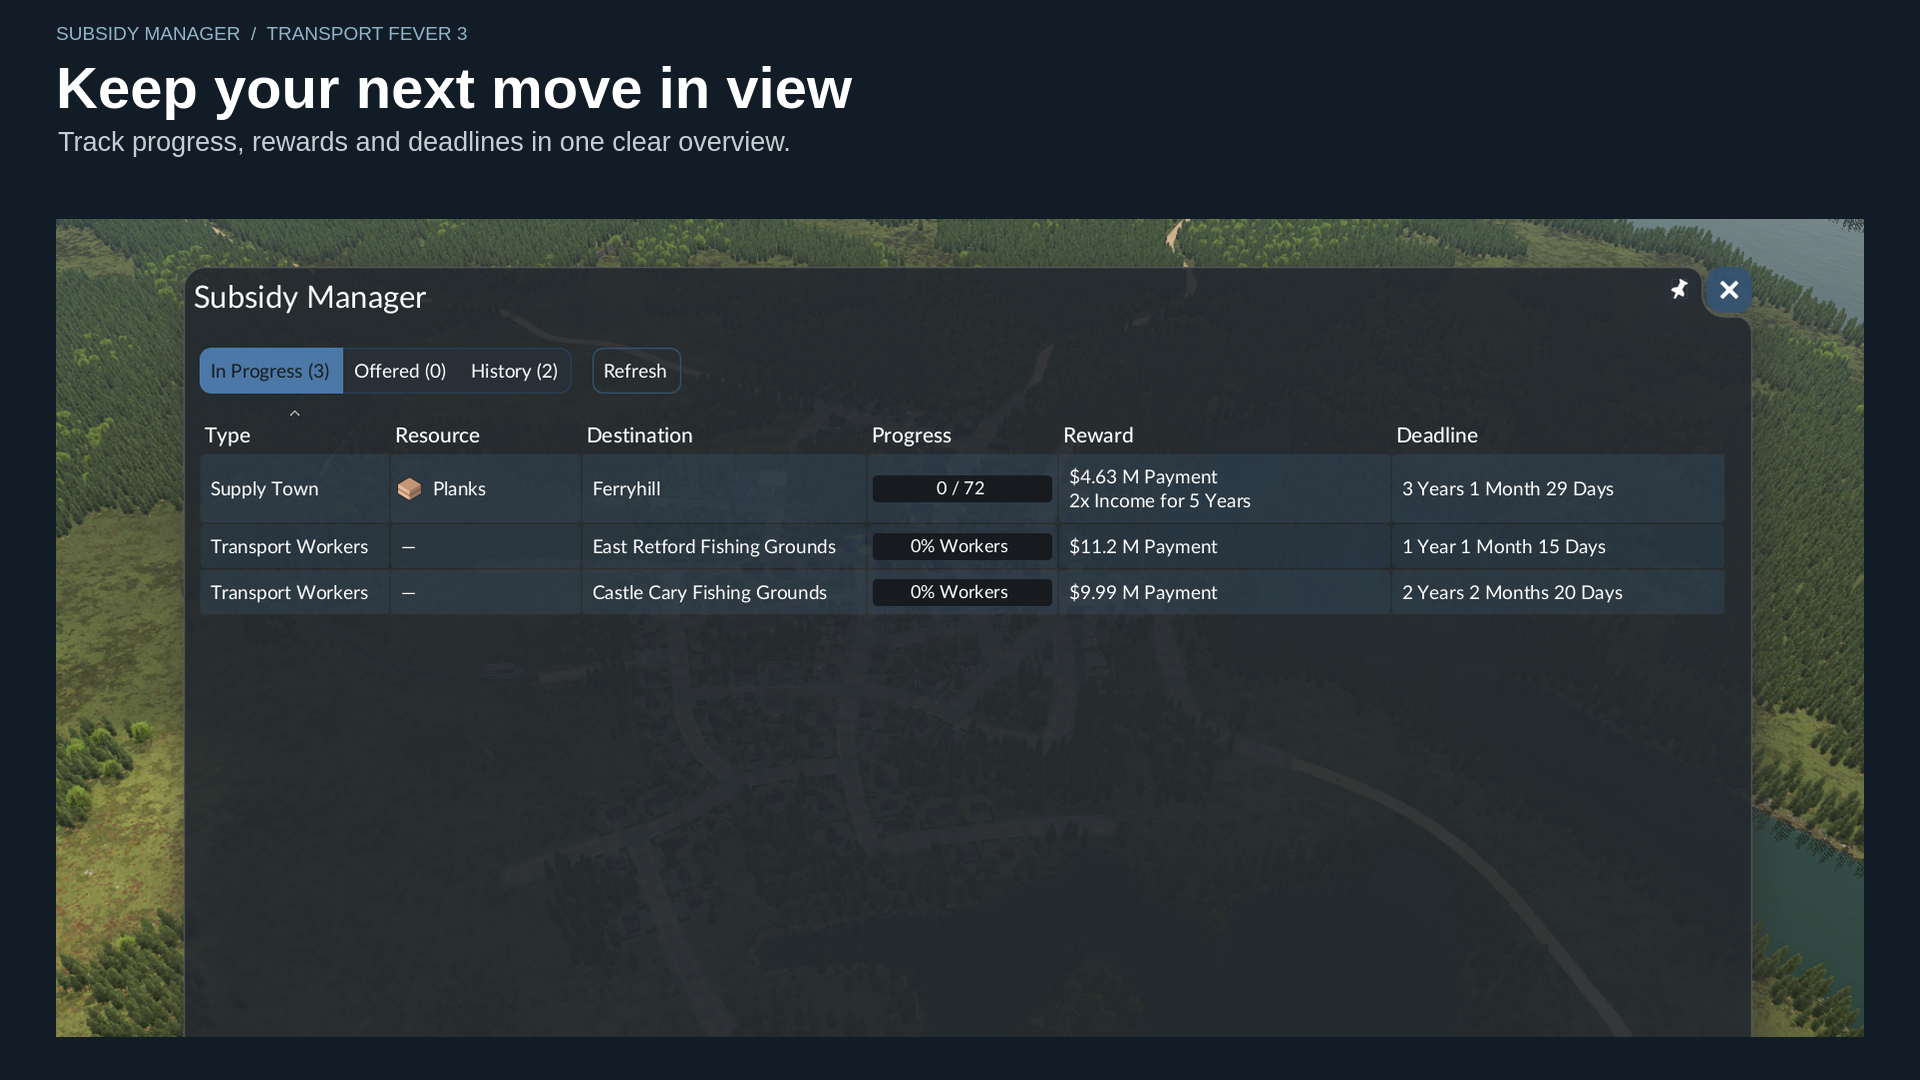
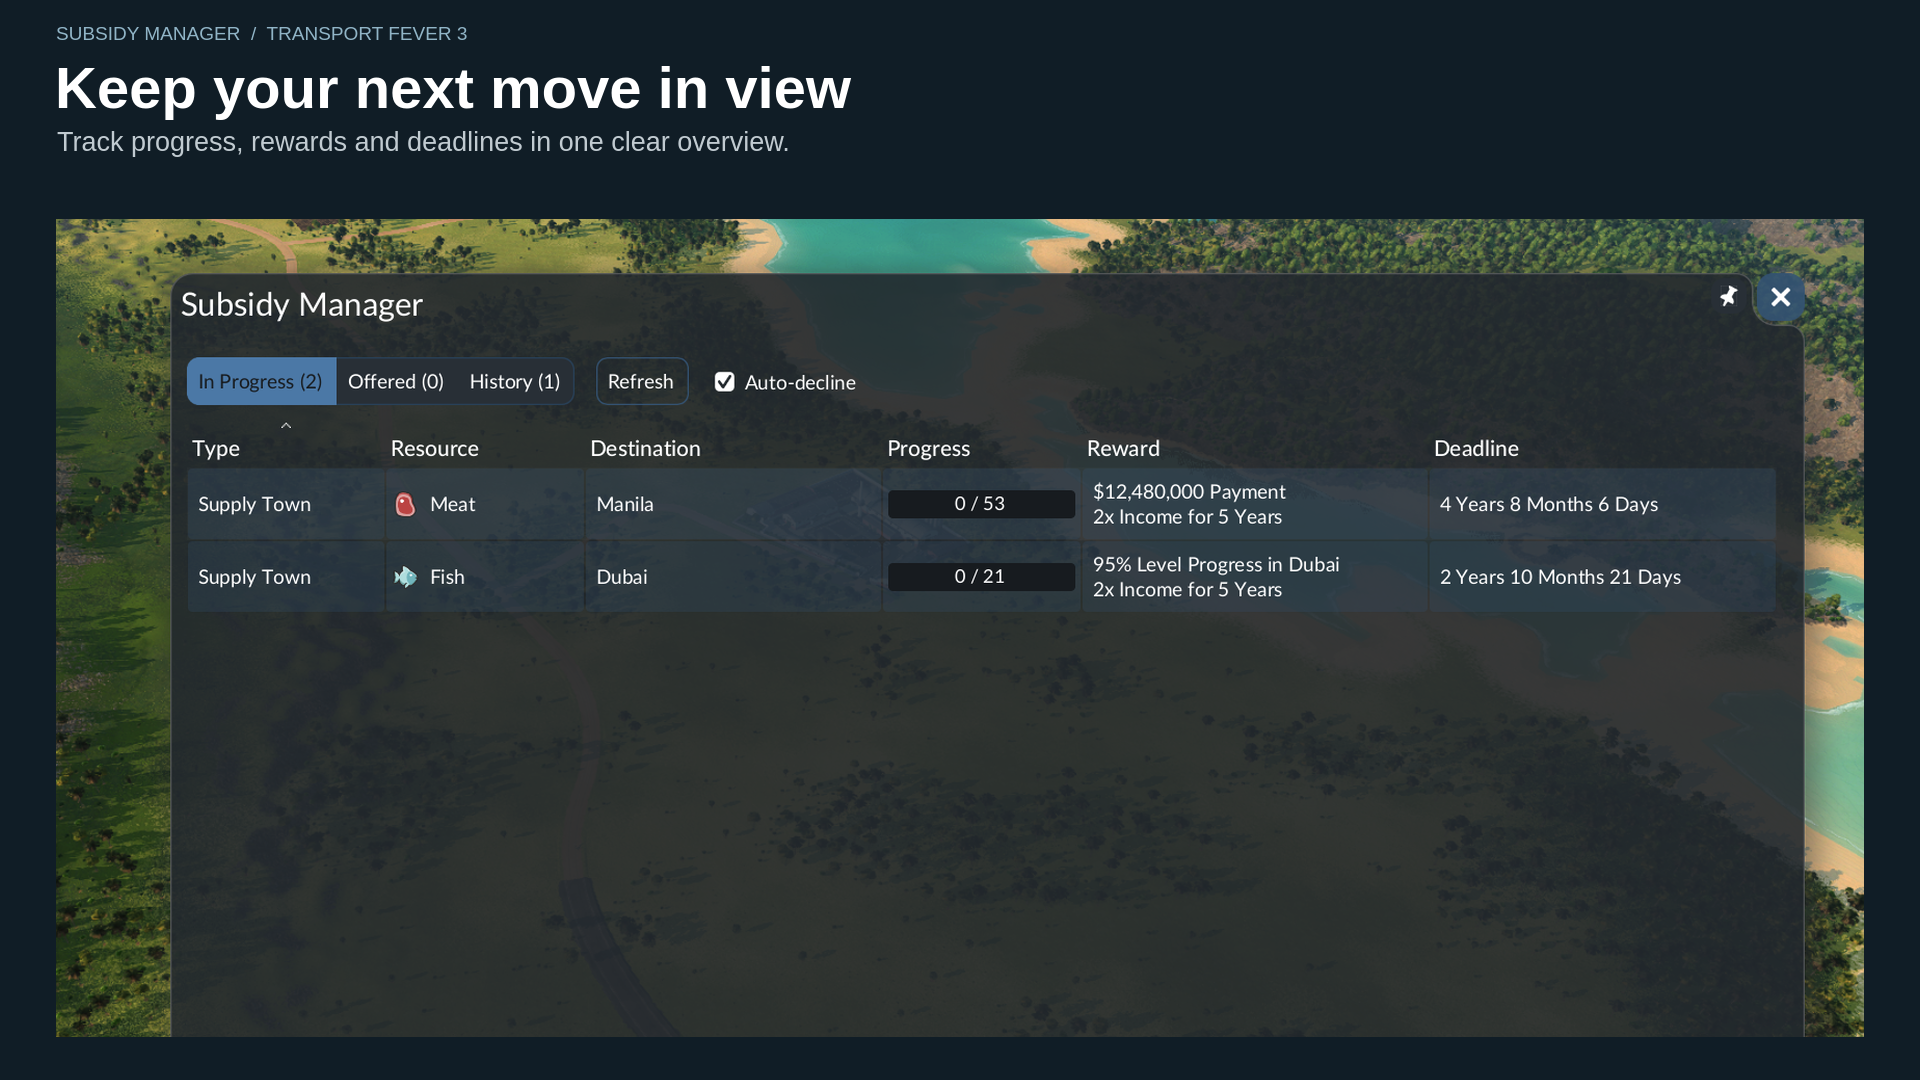
Refresh gallery with real recovery flow screenshots

diff --git a/tests/release_package_test.py b/tests/release_package_test.py
@@ -74,7 +74,7 @@ with tempfile.TemporaryDirectory() as first, tempfile.TemporaryDirectory() as se
                 assert not re.search(r"/home/|/tmp/|\b(?:copilot|codex|openai|gpt|proof of concept)\b", text, re.I), name
         expected = {prefix + path for path in builder.RUNTIME_FILES}
         # Gallery must match the approved source captures, not only valid PNG headers.
-        gallery = ("hero", "toolbar", "active", "history", "empty-active", "empty-offered", "empty-history", "auto-decline")
+        gallery = ("hero", "toolbar", "active", "history", "empty-active", "empty-offered", "empty-history", "auto-decline", "missed-offers")
         for index, source in enumerate(gallery):
             preview = prefix + f"_metadata/{index}.png"
             assert package.read(preview) == (ROOT / "docs/screenshots" / f"{source}.png").read_bytes(), f"Stale gallery: {preview}"

diff --git a/AGENTS.md b/AGENTS.md
@@ -294,3 +294,11 @@ These findings come from the installed TF3 resources and real game logs inspecte
 - Regression coverage checks both dots after confirmed review, toolbar persistence over reload, clearing only the toolbar on manager opening, zero/failure/sync/recovery/nonfinite-count silence, suppression-on silence and failed-save retries. The shipped React contract harness now accepts the additional scoped listener. Native C++ dot painting still needs real-game UAT. Same pending v1.3.0/revision 18; README/release history/description document both markers.
 - Required package checks repeated read-only: no configured Omarchy updates; temporary Teal origin HEAD remains c6b986e. Fresh official advisory comparison is unchanged at zero installed versions below recorded fixes and 20 unresolved groups lacking fixed-version data, not confirmed exposures. No runtime dependency manifests added, no installations/upgrades or system database/configuration changes.
 - Validation/handoff passed: strengthened badge/UI regression (fails against the previous committed UI), state/20-row, shipped React and stylesheet contracts, reproducible package checks and diff hygiene. Installed definitions retain only the same 17 injected-meta diagnostics and no ordinary/syntax errors. Built the 19-entry ZIP, verified staging backup `staging_backups/tf3_subsidy_manager_1-pre-v1.3.0-20261021T192723870477Z`, matched all 11 runtime files to source and preserved eight gallery images plus uploader linkage. Gameplay-installed copy unchanged. No new real-game/native uploader validation, upload/publication, tag or push; menu-dot appearance still requires UAT.
+
+### v1.3.0 Real-Game Gallery Refresh
+
+- The maintainer supplied three current real-game captures: clean In Progress with Auto-decline enabled, the updated three-line Auto-decline tooltip, and Auto-decline disabled with Offered (2), its yellow dot and the two-missed-offers tooltip. The maintainer separately confirmed accepted-task progress and its native notification continued during suppression. These observations do not establish successful recovery/acceptance, save/reload retention or the latest toolbar-dot rendering; testing continues.
+- Composed these captures deterministically using the established 1920×1080 charcoal caption layout, matching the existing gallery typography/insets. Only screenshot crop/scale and external captions change; game UI, values and tooltips are not redrawn. Updated `active.png` / metadata 2 and `auto-decline.png` / metadata 7; added `missed-offers.png` / metadata 8. Gallery now has nine images. Production script remains under ignored `docs/screenshots/drafts/`; original captures remain outside the repository.
+- README, changelog, release notes and Mod Hub description reflect the refreshed gallery. Same pending v1.3.0/revision 18 branch; no new PR version bump. Reproducible package/gallery-source checks, image dimensions, ignored-document/draft checks and diff hygiene pass. ZIP contains 20 allowlisted files. No runtime implementation changes were made in this gallery pass; automated packaging checks do not establish native uploader or real-game recovery success.
+- Required read-only package/security check: no project dependency manifests or third-party runtime packages; configured Omarchy repositories offer no updates, and temporary Teal compiler origin HEAD remains c6b986e. Fresh official Arch security comparison covers 1212 installed packages: zero below recorded fixed versions, with 20 unresolved groups lacking fixed-version data. This is incomplete advisory resolution, not a clean vulnerability claim. No packages were installed/upgraded or system package databases/configuration changed. Matching gallery fonts use the already installed Liberation Sans; temporary font reference downloads remain in /tmp.
+- Verified full staging backup `staging_backups/tf3_subsidy_manager_1-pre-v1.3.0-20261021T193644877381Z`; copied and verified 11 runtime files and the three intended preview replacements/additions. Preserved all six other gallery images and uploader linkage byte-for-byte. The separate gameplay-installed copy is unchanged. No upload/publication, native uploader validation, push or tag was performed.

diff --git a/README.md b/README.md
@@ -49,7 +49,11 @@ The gallery below uses real game captures. The cover above is promotional artwor
 
 ### Skip new offers when you want to
 
-![Auto-decline enabled beside Refresh, with its tooltip explaining that existing offers and accepted tasks are kept](docs/screenshots/auto-decline.png)
+![Auto-decline tooltip explains that turning it off reveals missed subsidies that are still available](docs/screenshots/auto-decline.png)
+
+### Pick up the opportunities you missed
+
+![Auto-decline off, with a yellow Offered dot and a tooltip reporting two previously hidden subsidies still available](docs/screenshots/missed-offers.png)
 
 ### Keep your next move in view
 
@@ -92,7 +96,7 @@ Clearer History with one status per outcome, explanatory tooltips for missing va
 - **Some fields may be unavailable.** Open the game's detail window for the full task information.
 - **English is currently the supplied language.**
 
-Earlier releases have been tested in real saves on Linux, including the In Progress and History tables and all three compact empty views. The corrected Auto-decline and recovery flow still need in-game verification and updated screenshots; the gallery above shows earlier releases. Gameplay testing on Windows, macOS, Xbox and PlayStation has not been performed. Mods that change the same toolbar or subsidy interface may conflict.
+Real-save testing on Linux covers the In Progress and History tables and all three compact empty views. The updated captures show Auto-decline guidance and the missed-offer count and yellow Offered dot. Accepted-task progress and its native notification continued during suppression in the maintainer's test. Recovery and toolbar-dot testing are still in progress. Gameplay testing on Windows, macOS, Xbox and PlayStation has not been performed. Mods that change the same toolbar or subsidy interface may conflict.
 
 ## Feedback
 

diff --git a/CHANGELOG.md b/CHANGELOG.md
@@ -2,6 +2,7 @@
 
 ## v1.3.0 — Recover previously hidden subsidies
 
+- Updated the real-game gallery with Auto-decline guidance and the missed-offer indicator.
 - When missed offers become available after switching Auto-decline off, the toolbar icon shows its yellow dot too. Opening the manager clears the toolbar dot; opening Offered clears its separate dot.
 - Turning Auto-decline off refreshes the overview immediately and updates it again when the availability check finishes.
 - Auto-decline saves and declines new offers before they reach the offer notification flow, after the game confirms the option. Previously hidden offers do not set the manager’s toolbar dot.

diff --git a/RELEASE_NOTES.md b/RELEASE_NOTES.md
@@ -2,6 +2,7 @@
 
 ## v1.3.0 — Recover previously hidden subsidies
 
+- Updated the real-game gallery with Auto-decline guidance and the missed-offer indicator.
 - When missed offers become available after switching Auto-decline off, the toolbar icon shows its yellow dot too. Opening the manager clears the toolbar dot; opening Offered clears its separate dot.
 - Turning Auto-decline off refreshes the overview immediately and updates it again when the availability check finishes.
 - Auto-decline saves and declines new offers before they reach the offer notification flow, after the game confirms the option. Previously hidden offers do not set the manager’s toolbar dot.
